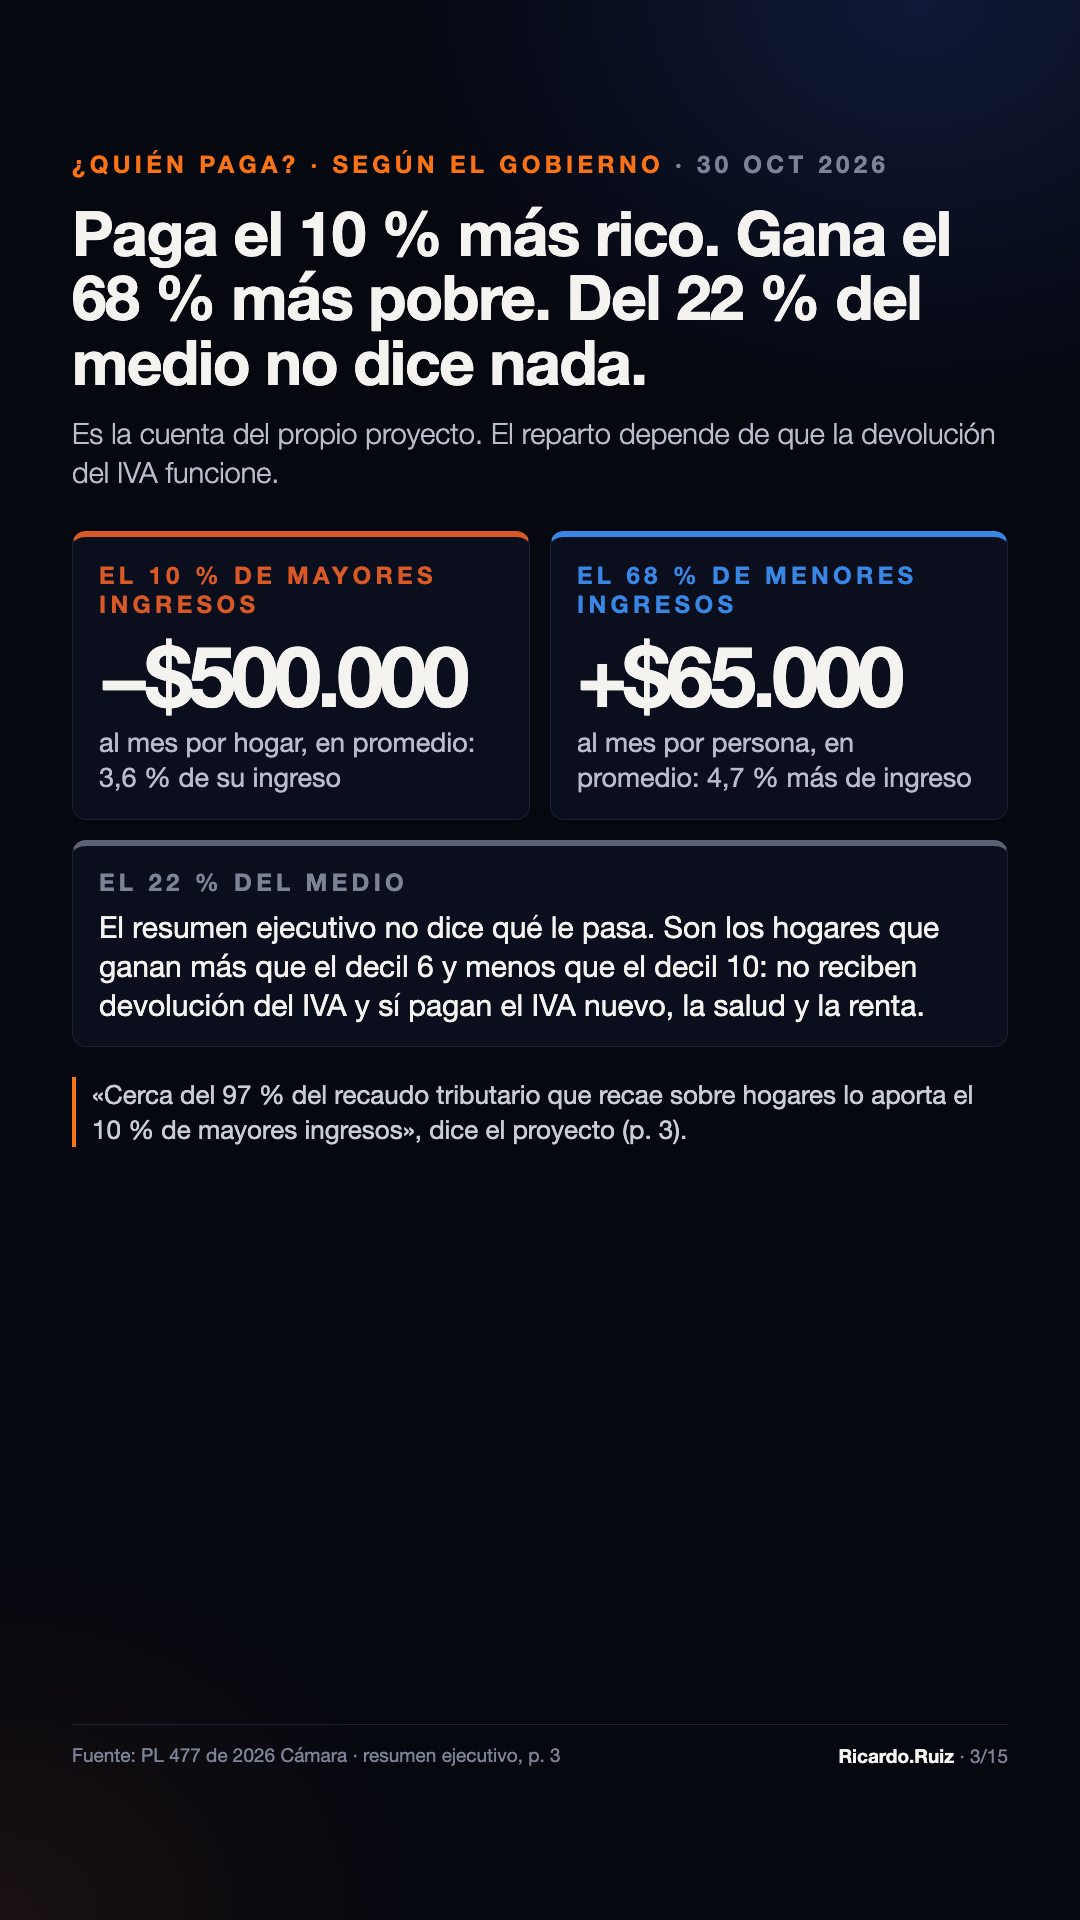
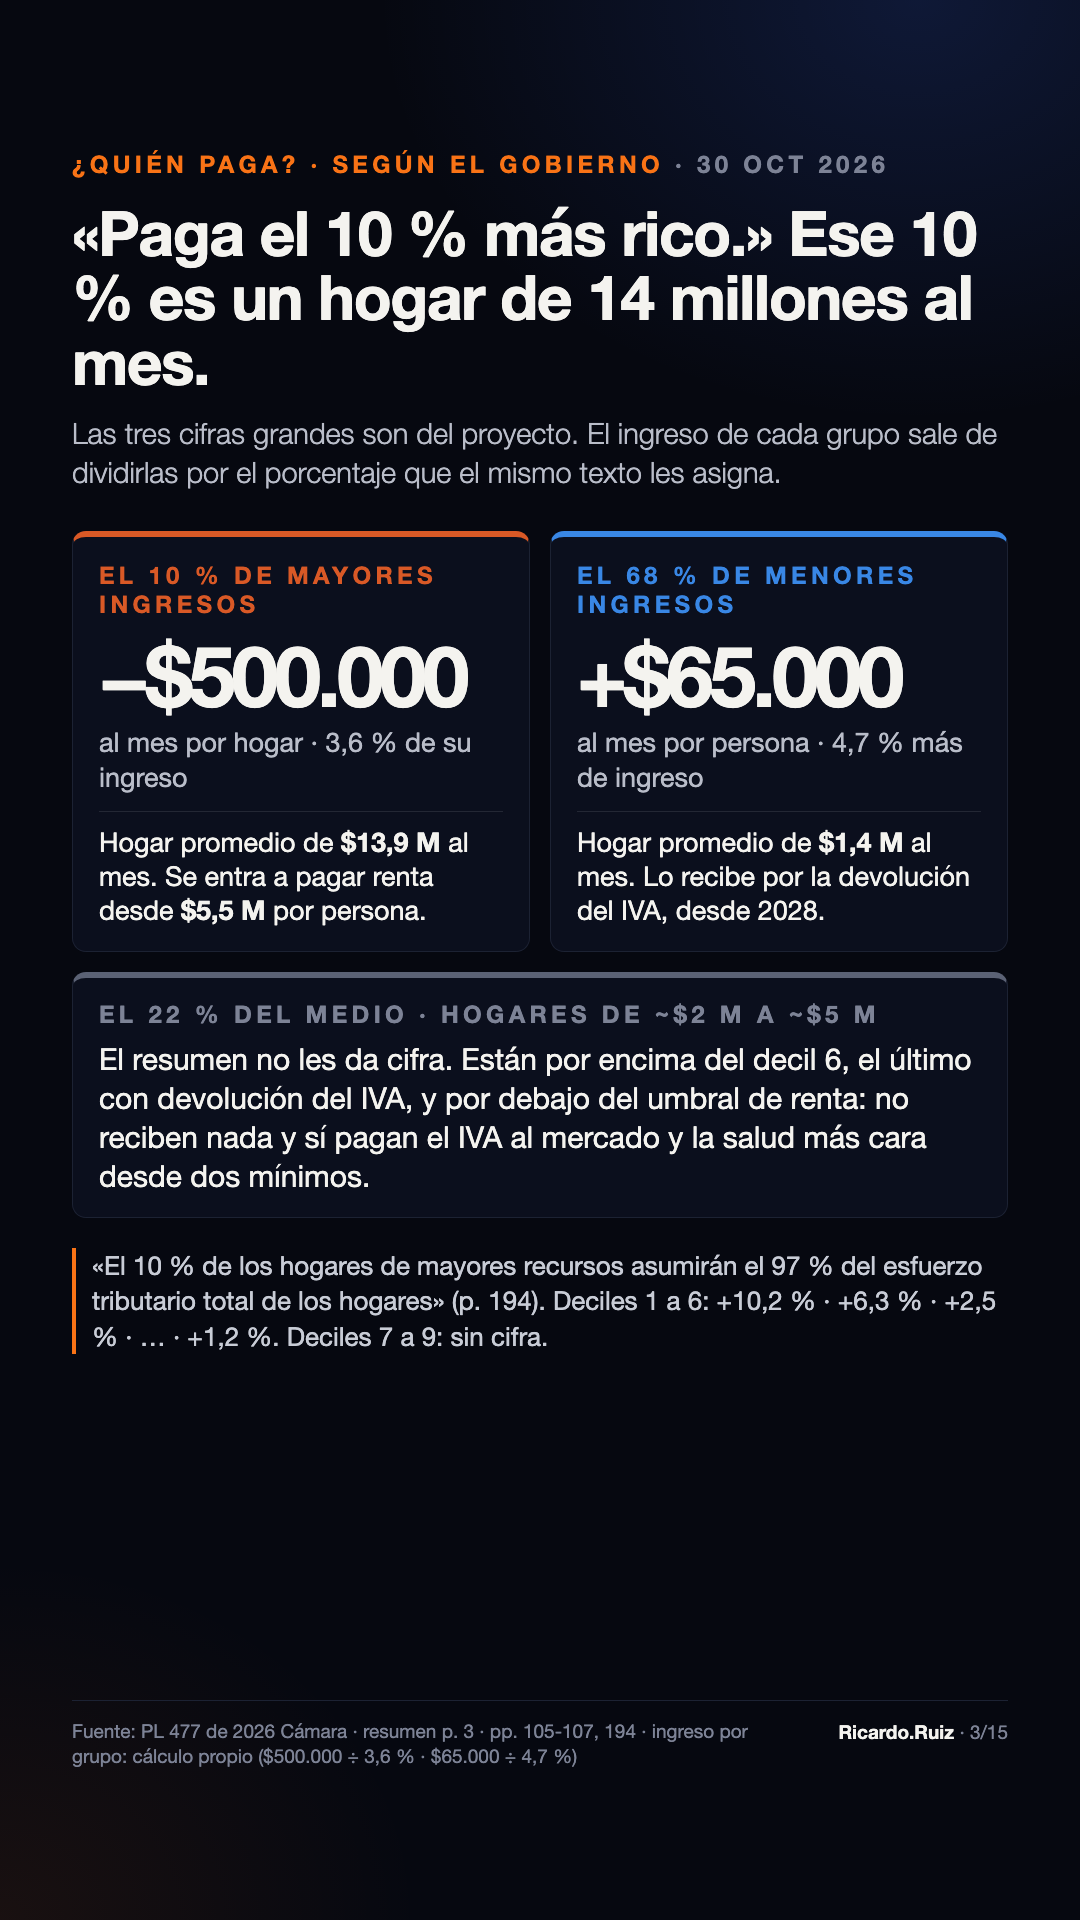
ley de rescate · video 1: el «10 % más rico» traducido a plata
La línea de quién gana y quién pierde no decía nada en porcentajes. Ahora
dice a cuánto equivale cada grupo con las cuentas del mismo proyecto:
$500.000 = 3,6 % → hogar de $13,9 M; $65.000 = 4,7 % → hogar de $1,4 M;
renta desde $5,5 M (p. 105-107); el 22 % del medio, hogares de ~2 a ~5 M,
sin devolución y con IVA y salud. Cuadro 03 regenerado.

diff --git a/rrss/video/semana-2026-10-30/cuadros/html/03-quien-gana-quien-pierde.html b/rrss/video/semana-2026-10-30/cuadros/html/03-quien-gana-quien-pierde.html
@@ -1,4 +1,4 @@
-<!doctype html><html lang="es"><head><meta charset="utf-8"><title>Paga el 10 % más rico. Gana el 68 % más pobre. Del 22 % del medio no dice nada.</title>
+<!doctype html><html lang="es"><head><meta charset="utf-8"><title>«Paga el 10 % más rico.» Ese 10 % es un hogar de 14 millones al mes.</title>
 <style>
 @font-face { font-family: H; src: url("../../../fuente-congreso-60s/fonts/helveticaneue-light.woff2"); font-weight: 300; }
 @font-face { font-family: H; src: url("../../../fuente-congreso-60s/fonts/helveticaneue.woff2"); font-weight: 400; }
@@ -40,11 +40,11 @@ td.n, th.n { text-align: right; white-space: nowrap; }
 .li small { color: #7d8396; font-size: 20px; }
 </style></head><body><div class="f">
 <div class="k">¿Quién paga? · según el Gobierno <span>· 30 oct 2026</span></div>
-<h1>Paga el 10 % más rico. Gana el 68 % más pobre. Del 22 % del medio no dice nada.</h1><div class="sub">Es la cuenta del propio proyecto. El reparto depende de que la devolución del IVA funcione.</div>
+<h1>«Paga el 10 % más rico.» Ese 10 % es un hogar de 14 millones al mes.</h1><div class="sub">Las tres cifras grandes son del proyecto. El ingreso de cada grupo sale de dividirlas por el porcentaje que el mismo texto les asigna.</div>
 <div class="body"><div class="cols">
-<div class="card col" style="padding:24px 26px;border-top:6px solid #d95926"><div class="k" style="color:#d95926">El 10 % de mayores ingresos</div><div class="big" style="font-size:84px;margin-top:14px">−$500.000</div><div class="bigt">al mes por hogar, en promedio: 3,6 % de su ingreso</div></div>
-<div class="card col" style="padding:24px 26px;border-top:6px solid #3987e5"><div class="k" style="color:#3987e5">El 68 % de menores ingresos</div><div class="big" style="font-size:84px;margin-top:14px">+$65.000</div><div class="bigt">al mes por persona, en promedio: 4,7 % más de ingreso</div></div></div>
-<div class="card" style="padding:22px 26px;margin-top:20px;border-top:6px solid #5b6275"><div class="k" style="color:#7d8396">El 22 % del medio</div><div style="font-size:30px;line-height:1.3;margin-top:10px">El resumen ejecutivo no dice qué le pasa. Son los hogares que ganan más que el decil 6 y menos que el decil 10: no reciben devolución del IVA y sí pagan el IVA nuevo, la salud y la renta.</div></div>
-<div class="aviso">«Cerca del 97 % del recaudo tributario que recae sobre hogares lo aporta el 10 % de mayores ingresos», dice el proyecto (p. 3).</div></div></div>
-<div class="foot"><div>Fuente: PL 477 de 2026 Cámara · resumen ejecutivo, p. 3</div><div><b>Ricardo.Ruiz</b> · 3/15</div></div>
+<div class="card col" style="padding:24px 26px;border-top:6px solid #d95926"><div class="k" style="color:#d95926">El 10 % de mayores ingresos</div><div class="big" style="font-size:84px;margin-top:14px">−$500.000</div><div class="bigt">al mes por hogar · 3,6 % de su ingreso</div><div style="font-size:27px;line-height:1.25;margin-top:16px;padding-top:14px;border-top:1px solid rgba(255,255,255,.1)">Hogar promedio de <b>$13,9 M</b> al mes. Se entra a pagar renta desde <b>$5,5 M</b> por persona.</div></div>
+<div class="card col" style="padding:24px 26px;border-top:6px solid #3987e5"><div class="k" style="color:#3987e5">El 68 % de menores ingresos</div><div class="big" style="font-size:84px;margin-top:14px">+$65.000</div><div class="bigt">al mes por persona · 4,7 % más de ingreso</div><div style="font-size:27px;line-height:1.25;margin-top:16px;padding-top:14px;border-top:1px solid rgba(255,255,255,.1)">Hogar promedio de <b>$1,4 M</b> al mes. Lo recibe por la devolución del IVA, desde 2028.</div></div></div>
+<div class="card" style="padding:22px 26px;margin-top:20px;border-top:6px solid #5b6275"><div class="k" style="color:#7d8396">El 22 % del medio · hogares de ~$2 M a ~$5 M</div><div style="font-size:30px;line-height:1.3;margin-top:10px">El resumen no les da cifra. Están por encima del decil 6, el último con devolución del IVA, y por debajo del umbral de renta: no reciben nada y sí pagan el IVA al mercado y la salud más cara desde dos mínimos.</div></div>
+<div class="aviso">«El 10 % de los hogares de mayores recursos asumirán el 97 % del esfuerzo tributario total de los hogares» (p. 194). Deciles 1 a 6: +10,2 % · +6,3 % · +2,5 % · … · +1,2 %. Deciles 7 a 9: sin cifra.</div></div></div>
+<div class="foot"><div>Fuente: PL 477 de 2026 Cámara · resumen p. 3 · pp. 105-107, 194 · ingreso por grupo: cálculo propio ($500.000 ÷ 3,6 % · $65.000 ÷ 4,7 %)</div><div><b>Ricardo.Ruiz</b> · 3/15</div></div>
 </body></html>

diff --git a/tools/video-semanal/build_cuadros_2026-10-30.py b/tools/video-semanal/build_cuadros_2026-10-30.py
@@ -266,14 +266,14 @@ def cuadros():
 <div class="aviso"><b>Por qué la cuenta no cuadra con el 70 %:</b> el Gobierno suma como «reducción del Estado» los aportes que vuelven a pagar empresas y trabajadores, y cuenta medidas que van en otros decretos, no en esta ley (p. 203).</div>''',
               f'{PL} · Tabla 14, p. 204 · cálculo propio sobre esa tabla · en % del PIB'))
 
-    q.append(('03-quien-gana-quien-pierde', '¿Quién paga? · según el Gobierno', 'Paga el 10 % más rico. Gana el 68 % más pobre. Del 22 % del medio no dice nada.',
-              'Es la cuenta del propio proyecto. El reparto depende de que la devolución del IVA funcione.',
+    q.append(('03-quien-gana-quien-pierde', '¿Quién paga? · según el Gobierno', '«Paga el 10 % más rico.» Ese 10 % es un hogar de 14 millones al mes.',
+              'Las tres cifras grandes son del proyecto. El ingreso de cada grupo sale de dividirlas por el porcentaje que el mismo texto les asigna.',
               f'''<div class="cols">
-<div class="card col" style="padding:24px 26px;border-top:6px solid {CONTRA}"><div class="k" style="color:{CONTRA}">El 10 % de mayores ingresos</div><div class="big" style="font-size:84px;margin-top:14px">−$500.000</div><div class="bigt">al mes por hogar, en promedio: 3,6 % de su ingreso</div></div>
-<div class="card col" style="padding:24px 26px;border-top:6px solid {FAVOR}"><div class="k" style="color:{FAVOR}">El 68 % de menores ingresos</div><div class="big" style="font-size:84px;margin-top:14px">+$65.000</div><div class="bigt">al mes por persona, en promedio: 4,7 % más de ingreso</div></div></div>
-<div class="card" style="padding:22px 26px;margin-top:20px;border-top:6px solid {SIN}"><div class="k" style="color:#7d8396">El 22 % del medio</div><div style="font-size:30px;line-height:1.3;margin-top:10px">El resumen ejecutivo no dice qué le pasa. Son los hogares que ganan más que el decil 6 y menos que el decil 10: no reciben devolución del IVA y sí pagan el IVA nuevo, la salud y la renta.</div></div>
-<div class="aviso">«Cerca del 97 % del recaudo tributario que recae sobre hogares lo aporta el 10 % de mayores ingresos», dice el proyecto (p. 3).</div>''',
-              f'{PL} · resumen ejecutivo, p. 3'))
+<div class="card col" style="padding:24px 26px;border-top:6px solid {CONTRA}"><div class="k" style="color:{CONTRA}">El 10 % de mayores ingresos</div><div class="big" style="font-size:84px;margin-top:14px">−$500.000</div><div class="bigt">al mes por hogar · 3,6 % de su ingreso</div><div style="font-size:27px;line-height:1.25;margin-top:16px;padding-top:14px;border-top:1px solid rgba(255,255,255,.1)">Hogar promedio de <b>$13,9 M</b> al mes. Se entra a pagar renta desde <b>$5,5 M</b> por persona.</div></div>
+<div class="card col" style="padding:24px 26px;border-top:6px solid {FAVOR}"><div class="k" style="color:{FAVOR}">El 68 % de menores ingresos</div><div class="big" style="font-size:84px;margin-top:14px">+$65.000</div><div class="bigt">al mes por persona · 4,7 % más de ingreso</div><div style="font-size:27px;line-height:1.25;margin-top:16px;padding-top:14px;border-top:1px solid rgba(255,255,255,.1)">Hogar promedio de <b>$1,4 M</b> al mes. Lo recibe por la devolución del IVA, desde 2028.</div></div></div>
+<div class="card" style="padding:22px 26px;margin-top:20px;border-top:6px solid {SIN}"><div class="k" style="color:#7d8396">El 22 % del medio · hogares de ~$2 M a ~$5 M</div><div style="font-size:30px;line-height:1.3;margin-top:10px">El resumen no les da cifra. Están por encima del decil 6, el último con devolución del IVA, y por debajo del umbral de renta: no reciben nada y sí pagan el IVA al mercado y la salud más cara desde dos mínimos.</div></div>
+<div class="aviso">«El 10 % de los hogares de mayores recursos asumirán el 97 % del esfuerzo tributario total de los hogares» (p. 194). Deciles 1 a 6: +10,2 % · +6,3 % · +2,5 % · … · +1,2 %. Deciles 7 a 9: sin cifra.</div>''',
+              f'{PL} · resumen p. 3 · pp. 105-107, 194 · ingreso por grupo: cálculo propio ($500.000 ÷ 3,6 % · $65.000 ÷ 4,7 %)'))
 
     q.append(('04-iva-comida', '¿Quién paga? · IVA desde 2028', 'La comida que pasa a pagar IVA del 19 %',
               'Comparación del artículo 424 vigente (Estatuto Tributario, Secretaría del Senado) con el artículo 42 del proyecto. Lo que no está en la lista nueva, paga.',

diff --git a/rrss/video/semana-2026-10-30/guion-v1-quien-paga.md b/rrss/video/semana-2026-10-30/guion-v1-quien-paga.md
@@ -17,8 +17,11 @@ Todo lo que se afirma sale del PDF radicado (PL 477 de 2026 Cámara) salvo donde
 > otra cosa: el recorte real de gasto es uno de cada cuatro. El resto lo ponen empresas, trabajadores y consumidores.
 
 **[Quién gana, quién pierde]** · `03`
-> Según el Gobierno, el 10 % más rico pone unos 500 mil pesos al mes, y el 68 % más pobre recibe unos 65 mil. Del 22 %
-> que queda en el medio, el resumen no dice nada.
+> El Gobierno dice que paga el 10 % más rico. Ojo con esa palabra: por las cuentas del mismo proyecto, ese hogar gana
+> en promedio 14 millones al mes, y uno entra a pagar renta desde cinco millones y medio. O sea: un profesional con un
+> buen sueldo, no un millonario. Pone unos 500 mil pesos al mes. Al otro lado, el 68 % más pobre, hogares de un millón y
+> medio, recibe 65 mil por la devolución del IVA. Y en el medio hay un 22 %, hogares de dos a cinco millones, que no
+> aparece en el resumen: no les devuelven nada, pero el IVA al mercado y la salud más cara sí les llegan.
 
 **[IVA a la comida]** · `04`
 > Lo que más va a sonar: desde 2028, tomate, cebolla, frutas, fríjol, lenteja, sal y café pagarían IVA del 19 %. Arroz,
@@ -90,6 +93,11 @@ de estabilidad; el proyecto trae el RUGE (arts. 69, 917-925), así que van del l
   Secretaría del Senado (secretariasenado.gov.co). La lista de lo que sale es por partida arancelaria.
 - Tabla 14 (p. 204): recorte = eficiencia del gasto + gastos de personal + OPS. 0,58 de 2,35 en 2027; 1,01 de 4,09 en
   2030: 25 % en los dos años.
-- Reparto por deciles: resumen ejecutivo, p. 3.
+- Reparto por deciles: resumen ejecutivo, p. 3 (y p. 194-195: decil 1 +10,2 %, deciles 2-3 +6,3 %, decil 4 +2,5 %,
+  decil 6 +1,2 %, decil 10 −3,6 %; de los deciles 7-9 no da cifra). Los «14 millones» y el «millón y medio» son cálculo
+  propio con los datos del mismo texto: $500.000 = 3,6 % del ingreso → $13,9 M por hogar; $65.000 = 4,7 % → $1,4 M. El
+  «desde cinco millones y medio» es el umbral nuevo de renta (p. 105), que el proyecto ubica «por encima del ingreso
+  promedio de los primeros nueve deciles» de asalariados (p. 107). Los «dos a cinco millones» del medio son los hogares
+  entre el decil 6 (último con EfectIVA) y ese umbral; es orden de magnitud, no cifra del PDF.
 - EfectIVA: art. 38 (p. 241-242), los porcentajes están en el artículo, no solo en la exposición.
 - Calendario: Ape Cuello a El Tiempo (antes de la radicación). El mensaje de urgencia no está confirmado.
